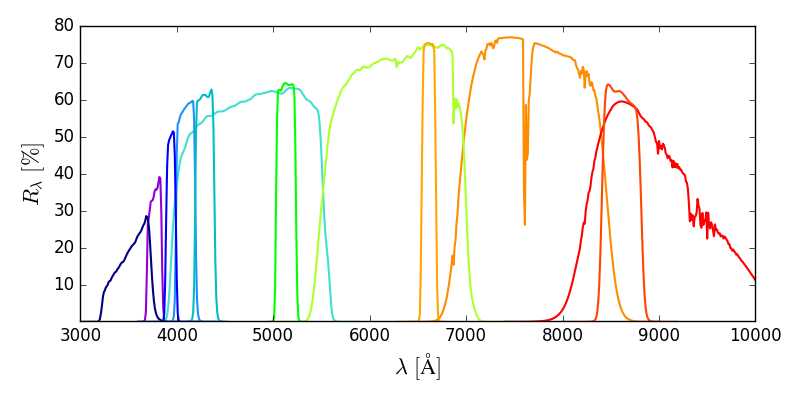
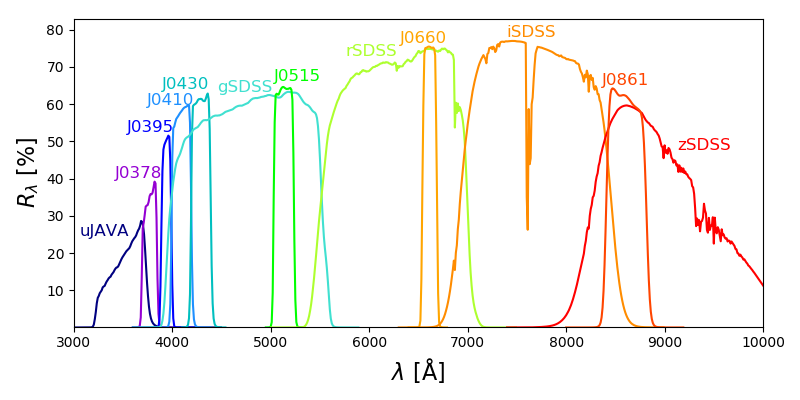
Updating file names, figure, and informations about the S-PLUS curves

diff --git a/make_filters_fig.py b/make_filters_fig.py
@@ -1,29 +1,37 @@
-#!/bin/python
-
 # make the filters transmitance for S-PLUS fig
-# v01 from 2019-08-15 by F. Herpich
-# contact: fabiorafaelh@gmail.com
+# v02 from 2020-09-55 by F. R. Herpich
+# contact: herpich@usp.br
 
 from astropy.io import ascii
 import matplotlib.pyplot as plt
 
-filters = {'U': ('u', 'navy'), 'F378': ('J0378', 'darkviolet'),
-           'F395': ('J0395', 'b'), 'F410': ('J0410', 'dodgerblue'),
-           'F430': ('J0430', 'c'), 'G': ('g', 'turquoise'),
-           'F515': ('J0515', 'lime'), 'R': ('r', 'greenyellow'),
-           'F660': ('J0660', 'orange'), 'I': ('i', 'darkorange'),
-           'Z': ('z', 'r'), 'F861': ('J0861', 'orangered')}
+filters = {'uJAVA': ('uJAVA', 'navy', 3563, -500, -4),
+           'F0378': ('J0378', 'darkviolet', 3770, -350, 1),
+           'F0395': ('J0395', 'b', 3940, -400, 1),
+           'F0410': ('J0410', 'dodgerblue', 4094, -350, -0.1),
+           'F0430': ('J0430', 'c', 4292, -400, 1.3),
+           'gSDSS': ('gSDSS', 'turquoise', 4751, -300, 0.),
+           'F0515': ('J0515', 'lime', 5133, -100, 1.5),
+           'rSDSS': ('rSDSS', 'greenyellow', 6258, -500, -2),
+           'F0660': ('J0660', 'orange', 6614, -300, 1),
+           'iSDSS': ('iSDSS', 'darkorange', 7690, -300, 1),
+           'zSDSS': ('zSDSS', 'r', 8831, 300, -12),
+           'F0861': ('J0861', 'orangered', 8611, -250, 1)
+           }
 
 fig = plt.figure(figsize=(8, 4))
 for key in filters.keys():
     f = ascii.read('%s.dat' % key)
     plt.plot(f['col0']*10., f['col1']*100., color=filters[key][1], lw=1.5)
+    plt.text(filters[key][2] + filters[key][3],
+             max(f['col1']*100.) + filters[key][4],
+             filters[key][0], fontsize=12, color=filters[key][1])
 
 plt.xlabel(r'$\lambda\ \mathrm{[\AA]}$', fontsize=16)
 plt.ylabel(r'$R_\lambda\ \mathrm{[\%]}$', fontsize=16)
 plt.xlim(3000, 10000)
-plt.ylim(0.2, 80)
+plt.ylim(0.2, 83)
 plt.tight_layout()
 
 plt.savefig('splus_filters.png', format='png')
-plt.show()
+plt.show(block=False)

diff --git a/README.rst b/README.rst
@@ -1,4 +1,99 @@
-T80S telescope filter transmission curves using ESO sky transmittance
+T80S telescope filter transmission curves
 -------------------------------------------
 
+About
++++++
+
+The transmission curves are obtained after convolving the original measures taken by the company that produced the filters with the sky trasmission curve for Paranal (provide by ESO sky tramission tool), the mirror reflectance, and the CCD efficiency. The S-PLUS 12 filters trasmitance are shown by the figure below.
+
 .. image:: splus_filters.png
+
+The effective central wavelenghts as well as the <a href="https://www.codecogs.com/eqnedit.php?latex=\Delta\lambda" target="_blank"><img src="https://latex.codecogs.com/gif.latex?\Delta\lambda" title="\Delta\lambda" /></a> are obtained by calculating the FWHM of each filter. The central <a href="https://www.codecogs.com/eqnedit.php?latex=\lambda" target="_blank"><img src="https://latex.codecogs.com/gif.latex?\lambda" title="\lambda" /></a> correspond to the mean <a href="https://www.codecogs.com/eqnedit.php?latex=\lambda" target="_blank"><img src="https://latex.codecogs.com/gif.latex?\lambda" title="\lambda" /></a> at the corresponding FWHM. The parameters for all filters are listed in the table below.
+
+
+<div class="dlpage">
+    <table border=1>
+        <tr>
+            <th colspan="4"><b>S-PLUS filters summary</b></th>
+        </tr>
+        <tr>
+            <td>Name</td>
+            <td>λ<sub>eff</sub> [Å]</td>
+            <td>Δλ<sub>eff</sub> [Å]</td>
+            <td>Note</td>
+        </tr>
+        <tr>
+            <td>u</td>
+            <td>3563</td>
+            <td>352</td>
+            <td></td>
+        </tr>
+        <tr>
+            <td>F378</td>
+            <td>3770</td>
+            <td>151</td>
+            <td>[OII]</td>
+        </tr>
+        <tr>
+            <td>F395</td>
+            <td>3940</td>
+            <td>103</td>
+            <td>Ca H+K</td>
+        </tr>
+        <tr>
+            <td>F410</td>
+            <td>4094</td>
+            <td>201</td>
+            <td>Hδ</td>
+        </tr>
+        <tr>
+            <td>F430</td>
+            <td>4292</td>
+            <td>201</td>
+            <td>G-band</td>
+        </tr>
+        <tr>
+            <td>g</td>
+            <td>4751</td>
+            <td>1545</td>
+            <td></td>
+        </tr>
+        <tr>
+            <td>F515</td>
+            <td>5133</td>
+            <td>207</td>
+            <td>Mgb triplet</td>
+        </tr>
+        <tr>
+            <td>r</td>
+            <td>6258</td>
+            <td>1465</td>
+            <td></td>
+        </tr>
+        <tr>
+            <td>F660</td>
+            <td>6614</td>
+            <td>147</td>
+            <td>Hα</td>
+        </tr>
+        <tr>
+            <td>i</td>
+            <td>7690</td>
+            <td>1506</td>
+            <td></td>
+        </tr>
+        <tr>
+            <td>F861</td>
+            <td>8611</td>
+            <td>408</td>
+            <td>Ca Triplet</td>
+        </tr>
+        <tr>
+            <td>z</td>
+            <td>8831</td>
+            <td>1182</td>
+            <td></td>
+        </tr>
+
+    </table>
+</div>
